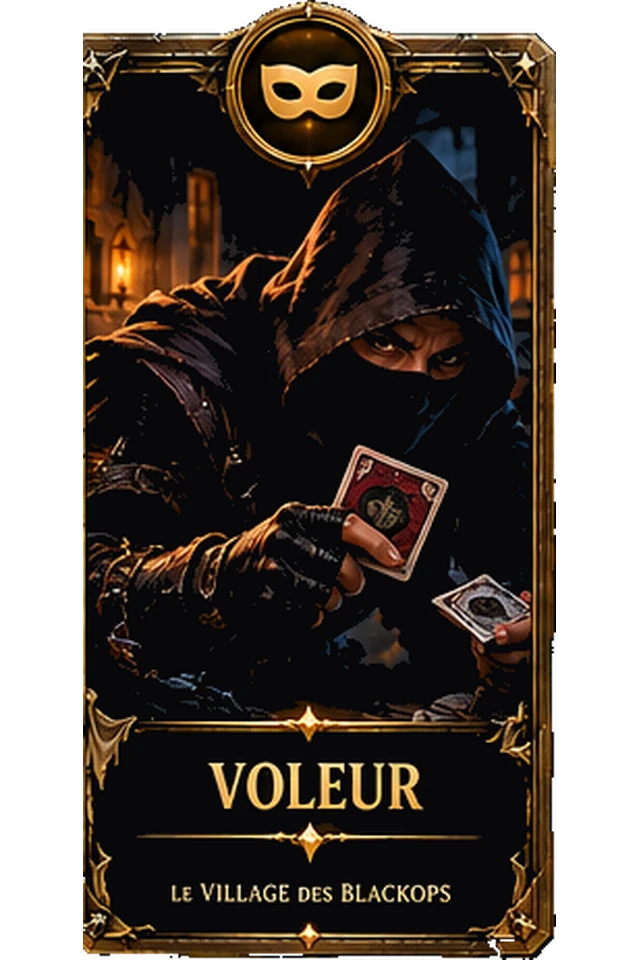
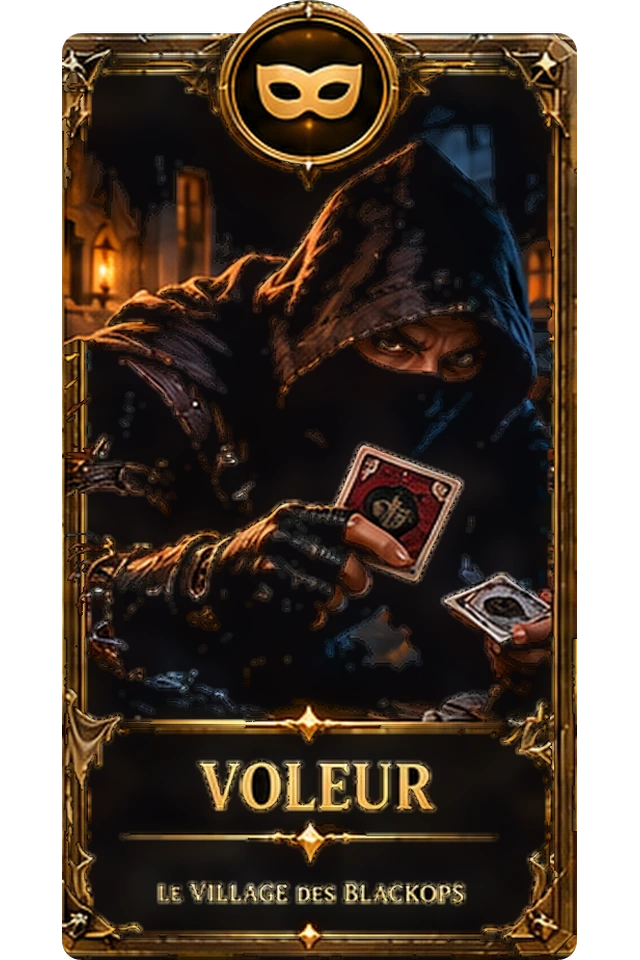
Cartes : découpe propre et identique pour toutes
- Silhouette nette commune (cadre aux coins arrondis + médaillon), même format
  pour toutes les cartes ; éclats de la carte voisine retirés.
- Montant du cadre rongé au détourage reconstitué en miroir (Voyante, Villageois).
- Petits manques reconstitués d'après les pixels voisins, grands manques en fond
  sombre (plus de bavures sur les titres).

Claude-Session: https://claude.ai/code/session_016QFmvqjMsiPwrgpkxjXLAF

diff --git a/public/js/art/cards.js b/public/js/art/cards.js
@@ -71,7 +71,7 @@ const fit = (name) => (name.length > 9 ? `textLength="${Math.min(220, name.lengt
  * Un rôle sans image garde sa carte dessinée.
  */
 /** Version des images de cartes : à changer quand on remplace les fichiers (force le rechargement). */
-const CARDS_V = '5';
+const CARDS_V = '6';
 const CARD_IMAGES = new Set(['werewolf', 'black_wolf', 'white_wolf', 'seer', 'witch', 'cupid', 'thief', 'hunter', 'salvateur', 'villager', 'loup', 'civil']);
 // Préchargement : la carte est prête au moment de sa révélation.
 if (typeof Image !== 'undefined') for (const r of [...CARD_IMAGES, 'dos']) new Image().src = `/assets/cartes/${r}.webp?v=${CARDS_V}`;

diff --git a/scripts/art/cards.py b/scripts/art/cards.py
@@ -1,74 +1,158 @@
 """Cartes des rôles : PNG fournis (carte posée au centre d'un grand fond transparent)
 → public/assets/cartes/<rôle>.webp, format 2:3 (640×960), carte centrée, fond transparent.
 
-Usage : python3 scripts/art/cards.py <dossier des PNG>
+Usage : python3 scripts/art/cards.py <dossier des PNG>      (pip install opencv-python-headless numpy)
 
-Les zones transparentes à l'intérieur d'une carte (détourage trop large) sont bouchées
-avec un noir profond, à partir de la silhouette d'une carte intacte (« civil »).
+Le détourage des fichiers fournis a rongé le bord de certaines cartes (et parfois l'intérieur).
+Chaque carte est donc :
+  1. recadrée sur son cadre (éclats de la carte voisine écartés) et mise au même format ;
+  2. découpée selon une silhouette nette commune (cadre aux coins arrondis + médaillon) ;
+  3. un montant du cadre rongé est reconstitué en miroir du montant opposé ;
+  4. complétée là où le détourage a mangé l'image : petits manques reconstitués à partir des
+     pixels voisins (le cadre se referme), grands manques remplis d'un fond sombre fondu.
 Le dos (dos.webp) est recadré à la même silhouette depuis scripts/art/dos-src.webp.
 """
 import sys, glob, os
-from PIL import Image, ImageChops
+import numpy as np
+import cv2
+from PIL import Image
 
-OUT = os.path.join(os.path.dirname(__file__), '..', '..', 'public', 'assets', 'cartes')
-W, H = 640, 960
-FILL = (8, 7, 10, 255)
+HERE = os.path.dirname(__file__)
+OUT = os.path.join(HERE, '..', '..', 'public', 'assets', 'cartes')
+W, H = 640, 960            # canevas final (2:3, comme les emplacements de carte du jeu)
+CW, CH = 496, 924          # carte normalisée (2× la taille d'origine ≈ 248×462)
+FRAME_TOP = 32             # haut du cadre (le médaillon dépasse au-dessus)
+RADIUS = 18                # arrondi des coins du cadre
+MEDAL_R = 74               # rayon du médaillon
+SS = 4                     # sur-échantillonnage de la silhouette (bord lissé)
 NAMES = {
     'loup-garou': 'werewolf', 'loup-noir': 'black_wolf', 'loup-blanc': 'white_wolf', 'voyante': 'seer',
     'sorciere': 'witch', 'chasseur': 'hunter', 'salvateur': 'salvateur', 'cupidon': 'cupid',
     'voleur': 'thief', 'villageois': 'villager', 'civil': 'civil', 'loup': 'loup',
 }
+RATIO = 0.535              # largeur / hauteur d'une carte intacte
 
-def run(counts, minimum):
-    """Plus longue suite de colonnes (ou lignes) assez opaques : écarte les éclats voisins."""
-    best, start = (0, 0), None
-    for i, c in enumerate(list(counts) + [0]):
-        if c >= minimum and start is None:
+
+def runs(mask1d):
+    """Suites de True : [(début, fin)]"""
+    out, start = [], None
+    for i, v in enumerate(list(mask1d) + [False]):
+        if v and start is None:
             start = i
-        elif c < minimum and start is not None:
-            best = max(best, (start, i), key=lambda r: r[1] - r[0])
+        elif not v and start is not None:
+            out.append((start, i))
             start = None
-    return best
-
-def crop(path):
-    im = Image.open(path).convert('RGBA')
-    im = im.crop(im.getbbox())
-    a = im.split()[3].point(lambda v: 1 if v else 0)
-    w, h = a.size
-    px = a.load()
-    cols = [sum(px[x, y] for y in range(h)) for x in range(w)]
-    rows = [sum(px[x, y] for x in range(w)) for y in range(h)]
-    x0, x1 = run(cols, h * 0.05)
-    y0, y1 = run(rows, 1)
-    return im.crop((x0, y0, x1, y1))
-
-def place(card):
-    """Carte mise à la hauteur du canevas 2:3, centrée."""
-    s = H / card.height
-    c = card.resize((round(card.width * s), H), Image.LANCZOS)
-    out = Image.new('RGBA', (W, H), (0, 0, 0, 0))
-    out.alpha_composite(c, ((W - c.width) // 2, 0))
     return out
 
-src = sys.argv[1]
-files = {os.path.basename(f)[3:-4]: f for f in glob.glob(os.path.join(src, '*.png'))}
-template = crop(files['civil']).split()[3]
 
-for key, path in sorted(files.items()):
-    card = crop(path)
-    shape = template.resize(card.size, Image.LANCZOS).point(lambda v: 255 if v > 127 else 0)
-    alpha = ImageChops.lighter(card.split()[3], shape)
-    base = Image.new('RGBA', card.size, FILL)
-    base.alpha_composite(card)
-    base.putalpha(alpha)
-    place(base).save(os.path.join(OUT, NAMES[key] + '.webp'), quality=90, method=6)
-    print(NAMES[key], card.size)
+def frame_rect(alpha):
+    """Rectangle du cadre (x0, y0, x1, y1) dans l'image complète, éclats voisins écartés."""
+    ys, xs = np.nonzero(alpha)
+    y0, y1 = ys.min(), ys.max() + 1
+    a = alpha[y0:y1] > 0
+    h = y1 - y0
+    cols = a.sum(axis=0)
+    # Bloc principal : plus longue suite de colonnes un peu remplies.
+    blocks = runs(cols >= h * 0.05)
+    bx0, bx1 = max(blocks, key=lambda r: r[1] - r[0])
+    strong = [x for x in range(bx0, bx1) if cols[x] > 0.5 * h]
+    left, right = min(strong), max(strong) + 1
+    width = round(h * RATIO)
+    if right - left < width * 0.85:
+        # Un montant du cadre a disparu au détourage : le bord est pris au dernier pixel
+        # d'image restant de ce côté (le montant sera reconstitué en miroir).
+        top = np.nonzero(a[2:12].any(axis=0))[0]
+        medal = (top.min() + top.max() + 1) / 2
+        if medal - left < right - medal:
+            left = bx0
+        else:
+            right = bx1
+    return left, y0, right, y1
 
-# Dos : même silhouette que les faces.
-dos = Image.open(os.path.join(os.path.dirname(__file__), 'dos-src.webp')).convert('RGBA')
-ratio = template.width / template.height
-cw = round(dos.height * ratio)
-dos = dos.crop(((dos.width - cw) // 2, 0, (dos.width - cw) // 2 + cw, dos.height))
-dos.putalpha(ImageChops.multiply(dos.split()[3], template.resize(dos.size, Image.LANCZOS)))
-place(dos).save(os.path.join(OUT, 'dos.webp'), quality=90, method=6)
-print('dos', dos.size)
+
+def silhouette(medal_x):
+    big = np.zeros((CH * SS, CW * SS), np.uint8)
+    r = RADIUS * SS
+    x0, y0, x1, y1 = 0, FRAME_TOP * SS, CW * SS - 1, CH * SS - 1
+    cv2.rectangle(big, (x0 + r, y0), (x1 - r, y1), 255, -1)
+    cv2.rectangle(big, (x0, y0 + r), (x1, y1 - r), 255, -1)
+    for cx, cy in ((x0 + r, y0 + r), (x1 - r, y0 + r), (x0 + r, y1 - r), (x1 - r, y1 - r)):
+        cv2.circle(big, (cx, cy), r, 255, -1)
+    cv2.circle(big, (round(medal_x * SS), MEDAL_R * SS), MEDAL_R * SS, 255, -1)
+    return cv2.resize(big, (CW, CH), interpolation=cv2.INTER_AREA)
+
+
+def repair(rgba):
+    """Comble les manques à l'intérieur de la silhouette."""
+    rgb = rgba[:, :, :3].copy()
+    known = rgba[:, :, 3] > 127
+    a = rgba[:, :, 3:4].astype(np.float32) / 255
+    rgb = (rgb.astype(np.float32) * a).astype(np.uint8)   # pas de franges claires
+    holes = (~known).astype(np.uint8) * 255
+    painted = cv2.inpaint(rgb, holes, 3, cv2.INPAINT_TELEA)
+    # Loin de tout pixel connu, la reconstitution bave : on l'assombrit progressivement.
+    dist = cv2.distanceTransform(holes, cv2.DIST_L2, 5)
+    k = np.clip((dist - 1.5) / 2.5, 0, 1)[:, :, None]
+    dark = cv2.GaussianBlur(painted, (0, 0), 8).astype(np.float32) * 0.15 + np.array([6, 5, 8], np.float32)
+    fill = painted.astype(np.float32) * (1 - k) + dark * k
+    out = np.where(known[:, :, None], rgb.astype(np.float32), fill)
+    return np.clip(out, 0, 255).astype(np.uint8)
+
+
+def mirror_frame(card, band=26):
+    """Cadre symétrique : un montant rongé est reconstitué à partir du montant opposé."""
+    a = card[:, :, 3]
+    for side in (slice(0, band), slice(CW - band, CW)):
+        other = slice(CW - band, CW) if side.start == 0 else slice(0, band)
+        src = card[:, other][:, ::-1]
+        miss = (a[:, side] < 128) & (src[:, :, 3] >= 128)
+        card[:, side][miss] = src[miss]
+
+
+def place(rgba):
+    out = Image.new('RGBA', (W, H), (0, 0, 0, 0))
+    img = Image.fromarray(rgba, 'RGBA')
+    s = H / img.height
+    img = img.resize((round(img.width * s), H), Image.LANCZOS)
+    out.alpha_composite(img, ((W - img.width) // 2, 0))
+    return out
+
+
+def process(path):
+    full = np.array(Image.open(path).convert('RGBA'))
+    x0, y0, x1, y1 = frame_rect(full[:, :, 3])
+    crop = np.zeros((y1 - y0, x1 - x0, 4), np.uint8)
+    sx0 = max(0, x0)
+    crop[:, sx0 - x0:sx0 - x0 + (x1 - sx0)] = full[y0:y1, sx0:x1]
+    card = cv2.resize(crop, (CW, CH), interpolation=cv2.INTER_LANCZOS4)
+    # Position du médaillon (il n'est pas toujours exactement centré).
+    top = np.nonzero((card[4:24, :, 3] > 127).any(axis=0))[0]
+    medal_x = (top.min() + top.max() + 1) / 2 if len(top) else CW / 2
+    shape = silhouette(medal_x)
+    mirror_frame(card)
+    rgb = repair(card)
+    return np.dstack([rgb, shape]), (x1 - x0, y1 - y0)
+
+
+if __name__ == '__main__':
+    src = sys.argv[1]
+    files = {os.path.basename(f)[3:-4]: f for f in glob.glob(os.path.join(src, '*.png'))}
+    for key, path in sorted(files.items()):
+        rgba, size = process(path)
+        place(rgba).save(os.path.join(OUT, NAMES[key] + '.webp'), quality=92, method=6)
+        print(NAMES[key], size)
+
+    # Dos : mêmes dimensions et coins arrondis que les faces.
+    dos = Image.open(os.path.join(HERE, 'dos-src.webp')).convert('RGB')
+    cw = round(dos.height * CW / CH)
+    dos = dos.crop(((dos.width - cw) // 2, 0, (dos.width - cw) // 2 + cw, dos.height)).resize((CW, CH), Image.LANCZOS)
+    rgb = np.array(dos)
+    big = np.zeros((CH * SS, CW * SS), np.uint8)
+    r = RADIUS * SS
+    cv2.rectangle(big, (r, 0), (CW * SS - 1 - r, CH * SS - 1), 255, -1)
+    cv2.rectangle(big, (0, r), (CW * SS - 1, CH * SS - 1 - r), 255, -1)
+    for cx, cy in ((r, r), (CW * SS - 1 - r, r), (r, CH * SS - 1 - r), (CW * SS - 1 - r, CH * SS - 1 - r)):
+        cv2.circle(big, (cx, cy), r, 255, -1)
+    shape = cv2.resize(big, (CW, CH), interpolation=cv2.INTER_AREA)
+    place(np.dstack([rgb, shape])).save(os.path.join(OUT, 'dos.webp'), quality=92, method=6)
+    print('dos')
